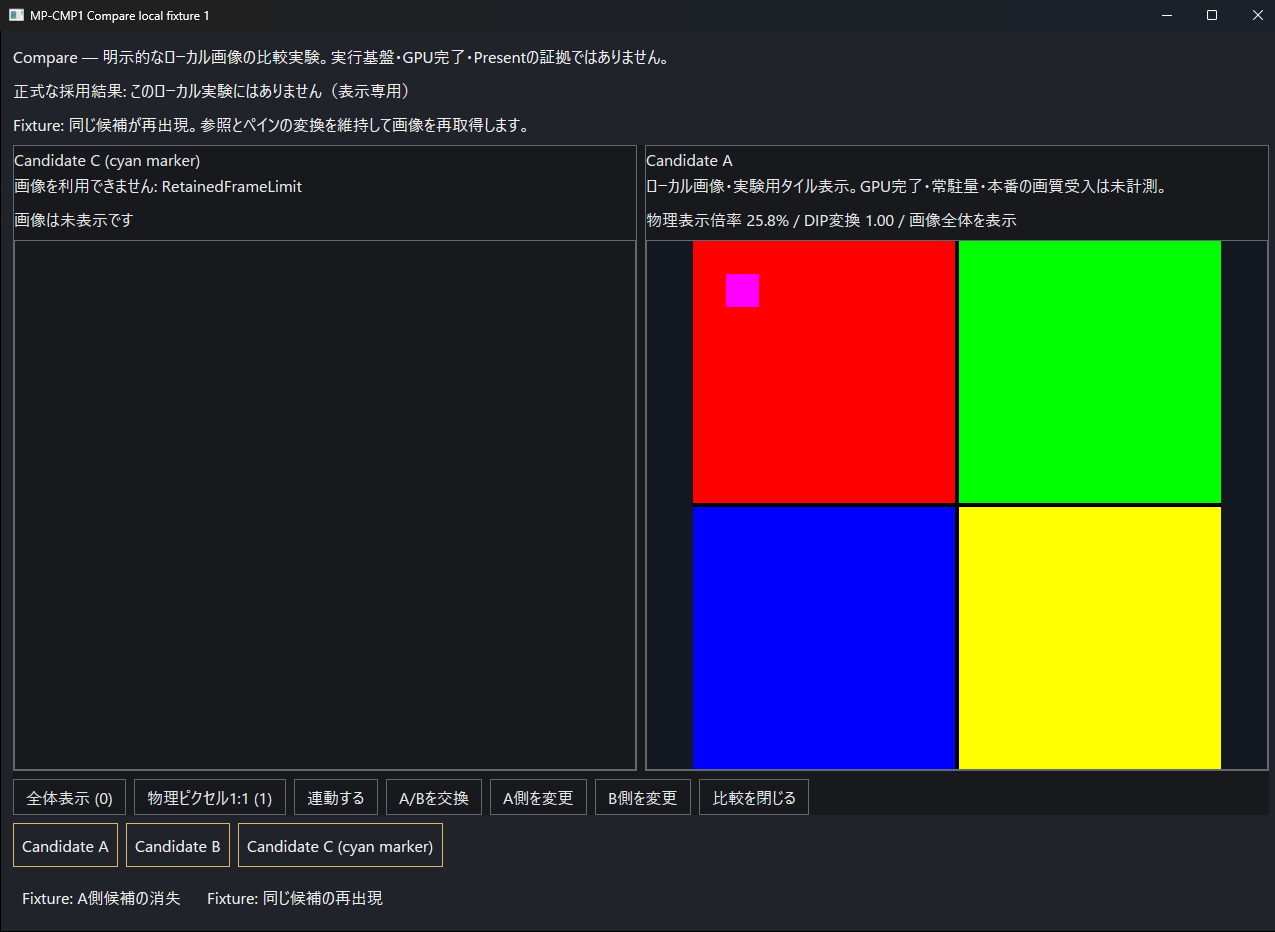
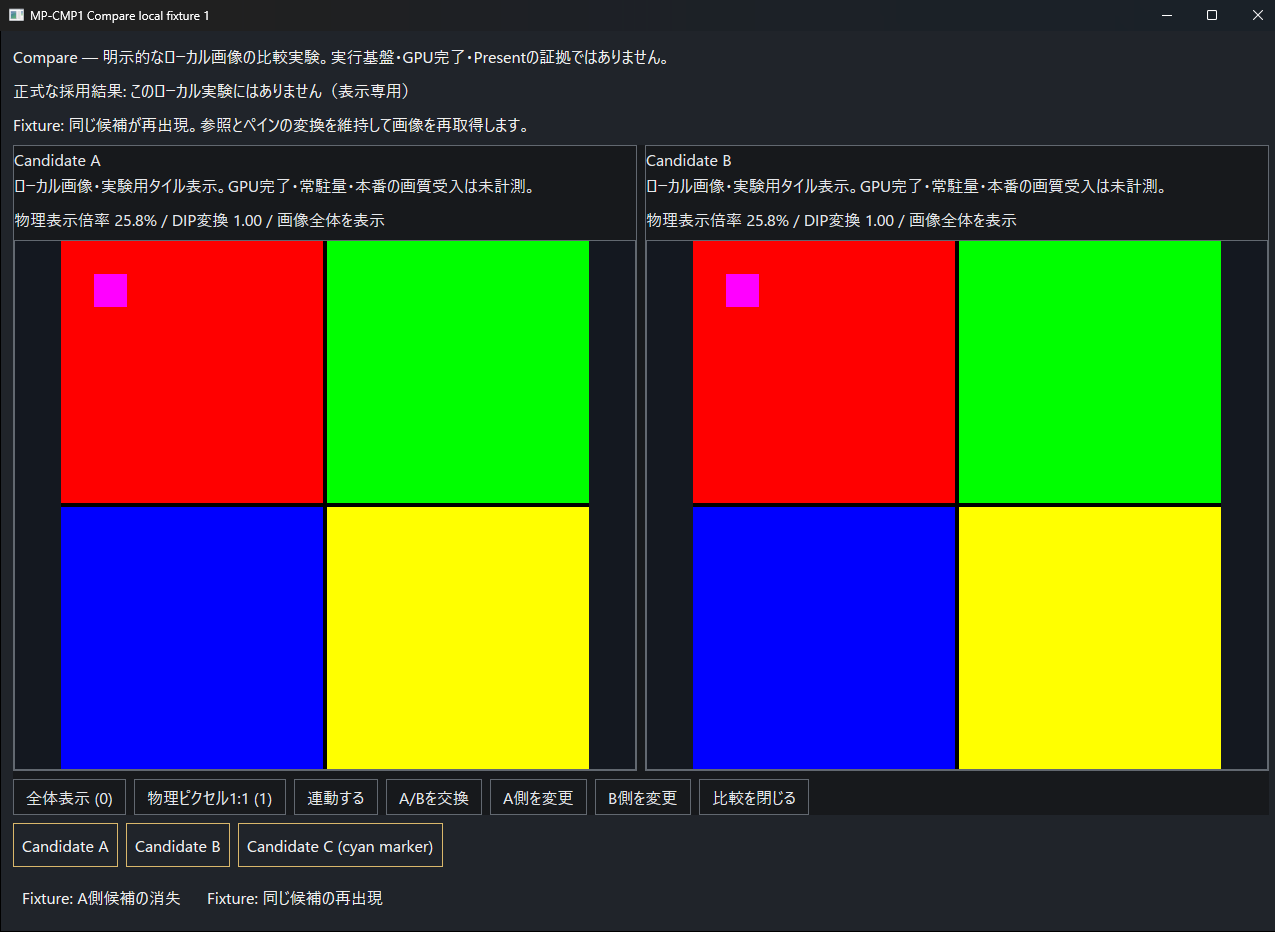
fix(compare): restore a Viewed candidate outside the pair and keep swapped pictures
Repairs the two findings from the Tern round on 7fe5bad.

- B-01 (blocking): closing Compare with a Viewed candidate outside the
  pair left that candidate unavailable. The example's selection path now
  acquires the viewed candidate's own local input when it is not a pair
  member, and closing keeps the picture that selection already loaded
  instead of overwriting it (ADR-0010 D-7). A refused or over-bound
  preparation still states its own reason and never shows another
  candidate's picture.
- A-01 (actionable): a swap while one side was unavailable could withdraw
  the picture the swap had just attached, because CompareView's
  availability still described the pre-swap panes. Availability now
  swaps with the frames, and the example restates its projection after a
  swap exactly as the host does, so the regression is reproducible
  natively.
- Refused preparations now state a user-facing sentence instead of a raw
  variant name on a picture surface (ADR-0015 Q13).

Observed natively on the release build: A/B -> Viewed C -> Close shows
Candidate C at its transform; a swap with side A unavailable keeps side
B's attached picture and leaves the unavailable side's own reason intact.

Evidence: cmp1-compare-latest now binds fourteen captures from this
candidate (both regressions included), the trace ledger digest and the
Gate result for the first candidate 7fe5bad (SUCCEEDED, 8/8).

Changed region(s): [[0.0, 0.1556, 0.4894, 0.8401]]

diff --git a/apps/desktop/examples/compare.rs b/apps/desktop/examples/compare.rs
@@ -690,15 +690,41 @@ impl CompareDemo {
                         .position(|candidate| candidate_index(candidate) == index)
                 });
                 let frame = pane.and_then(|pane| self.compare.read(cx).frames(cx)[pane].clone());
+                // The Viewed candidate can sit outside the pair (D-7): it is a local choice, not a
+                // Compare member, so its own local input is acquired instead of reporting the
+                // absence of a pair frame. A refused or over-bound preparation stays an explicit
+                // unavailable result and never shows another candidate's picture.
+                let own = if frame.is_none() {
+                    image_fixture::fixture_request_for(
+                        CANDIDATES[index].source,
+                        CANDIDATES[index].revision,
+                        1,
+                    )
+                    .ok()
+                } else {
+                    None
+                };
+                let revision = CANDIDATES[index].revision;
                 self.viewer.update(cx, |viewer, cx| {
                     if previous_viewed != Some(index) {
                         viewer.set_camera(ViewCamera::default(), cx);
                     }
                     if let Some(frame) = frame {
                         viewer.present_prepared(frame, window, cx);
+                    } else if let Some(request) = own {
+                        if !viewer
+                            .prepared()
+                            .is_some_and(|prepared| prepared.identity().key == request.key)
+                        {
+                            viewer.load_generated(request, window, cx, move |cancel| {
+                                image_fixture::generate_fixture_png(revision, cancel)
+                                    .map(Arc::<[u8]>::from)
+                            });
+                        }
                     } else {
                         viewer.unavailable(
-                            "画像を利用できません: 閲覧中の候補の保持済み画像がありません。".into(),
+                            "画像を利用できません: 閲覧中の候補のローカル入力を準備できません。"
+                                .into(),
                             cx,
                         );
                     }
@@ -903,10 +929,19 @@ fn open_compare_window(
                                         )
                                     })
                                 });
+                                let missing = this.missing;
+                                let available = this.presentation.compare_pair().map(|pair| {
+                                    pair.each_ref().map(|candidate| {
+                                        missing != Some(candidate_index(candidate))
+                                    })
+                                });
                                 view_entity.update(cx, |view, cx| {
                                     view.swap_resources(window, cx);
-                                    if let Some(labels) = labels {
-                                        view.set_labels(labels, cx);
+                                    // The host re-states the projection on its next render; doing it
+                                    // here keeps the example's contract the same as the shell's and
+                                    // pins that a swap never withdraws the picture it just attached.
+                                    if let (Some(labels), Some(available)) = (labels, available) {
+                                        view.set_projection(labels, available, cx);
                                     }
                                 });
                                 cx.notify();
@@ -943,15 +978,11 @@ fn open_compare_window(
                                     this.viewer.update(cx, |viewer, cx| {
                                         viewer.present_prepared(frame, window, cx);
                                     });
-                                } else {
-                                    this.viewer.update(cx, |viewer, cx| {
-                                        viewer.unavailable(
-                                            "Viewed candidate has no retained prepared frame"
-                                                .into(),
-                                            cx,
-                                        )
-                                    });
                                 }
+                                // A Viewed candidate outside the pair keeps the frame its own local
+                                // selection already loaded; closing Compare must not replace a
+                                // valid picture with an unavailable result, and a refused or
+                                // over-bound preparation already states its own reason.
                             });
                             this.closed = true;
                             this.status = format!(

diff --git a/crates/desktop-gpui/src/image_upload.rs b/crates/desktop-gpui/src/image_upload.rs
@@ -137,6 +137,38 @@ pub enum ImageUploadError {
     InvalidEncodedInputLimit,
 }
 
+impl ImageUploadError {
+    /// One user-facing sentence for a refused local preparation. The variant name stays in
+    /// diagnostics; a picture surface states a state, not an enum (ADR-0015 Q13). The match is
+    /// exhaustive so a new refusal cannot reach a surface unworded.
+    pub fn limitation(&self) -> &'static str {
+        match self {
+            Self::Cancelled => "この画像の準備は取り消されました。",
+            Self::PreparationBusy => "他の画像の準備中です。少し待ってから再試行してください。",
+            Self::ConsumersRemain => "この画像はまだ他の表示が使用しています。",
+            Self::PaintInProgress => "この画像は描画中のため解放できません。",
+            Self::NotRetained => "この画像は保持されていません。",
+            Self::NotOwnedByWindow => "この画像は別のウィンドウが所有しています。",
+            Self::AtlasRelease => "この画像の解放に失敗しました。",
+            Self::QuarantineBudgetExhausted { .. } => {
+                "保持上限に達したため、この画像を保持できません。"
+            }
+            Self::StaleDeviceGeneration { .. } => {
+                "表示先の世代が変わりました。画像を取得し直してください。"
+            }
+            Self::SourceRevisionMismatch { .. } => "要求した画像版と一致しません。",
+            Self::UnverifiableSourceRevision => "画像版を確認できません。",
+            Self::EncodedInputTooLarge { .. } => "画像データが許容上限を超えています。",
+            Self::Decode(_) => "画像を復号できません。",
+            Self::Admission(_) => "この画像は現在の保持状態と両立しないため表示できません。",
+            Self::RetainedFrameLimit => "保持上限に達したため、この画像を保持できません。",
+            Self::InvalidRasterLayout => "画像の形式が検証済みの範囲外です。",
+            Self::Allocation => "画像の作業領域を確保できません。",
+            Self::InvalidEncodedInputLimit => "画像の入力上限設定が不正です。",
+        }
+    }
+}
+
 impl std::fmt::Display for ImageUploadError {
     fn fmt(&self, f: &mut std::fmt::Formatter<'_>) -> std::fmt::Result {
         write!(f, "{self:?}")

diff --git a/crates/desktop-gpui/src/compare_view.rs b/crates/desktop-gpui/src/compare_view.rs
@@ -285,6 +285,10 @@ impl CompareView {
                 }),
             }
         }
+        // The projection's availability follows the candidate that now sits in each pane, so the
+        // swapped side must not look like a reappearance to the next `set_projection` call: that
+        // transition would withdraw the picture the swap just attached.
+        self.available.swap(0, 1);
         self.panes[self.active]
             .read(cx)
             .focus_handle()
@@ -432,7 +436,7 @@ impl CompareView {
                             }
                             this.panes[target].update(cx, |pane, cx| {
                                 pane.unavailable(
-                                    format!("画像を利用できません: {error}").into(),
+                                    format!("画像を利用できません: {}", error.limitation()).into(),
                                     cx,
                                 )
                             });

diff --git a/crates/desktop-gpui/src/image_viewer.rs b/crates/desktop-gpui/src/image_viewer.rs
@@ -364,7 +364,9 @@ impl ImageViewer {
                         }.into();
                     }
                     Ok(_) => this.status = "画像を利用できません: 保持されていない画像です。".into(),
-                    Err(error) => this.status = format!("画像を利用できません: {error}").into(),
+                    Err(error) => {
+                        this.status = format!("画像を利用できません: {}", error.limitation()).into();
+                    }
                 }
                 cx.notify();
             });

diff --git a/docs/development/IMPLEMENTATION_MASTER_PLAN.md b/docs/development/IMPLEMENTATION_MASTER_PLAN.md
@@ -5140,10 +5140,12 @@ SecretValue` are all refused; existing redactor behavior is unchanged.
 
 - **Authority and unchanged scope:** the Caller's plan-completion/resumption instruction under [ADR-0014](../decisions/ADR-0014-YAGNI-SCOPE-AND-RESUMPTION.md), implementing [DC-MP-CMP1](../architecture/DESKTOP_DESIGN_CONTRACTS.md#dc-mp-cmp1) with the values [ADR-0015](../decisions/ADR-0015-UX2-DECISION-CLOSURE.md) ratified (Q5–Q14). No contract, DD, UX, R0 or Runtime owner was amended, and this entry records implementation and observation, not acceptance.
 - **Implementation (`crates/desktop-gpui/src/compare_view.rs`, `image_viewer.rs`, `image_upload.rs`, `lib.rs`, `crates/ui-model/src/lib.rs`, `apps/desktop/examples/compare.rs`):** one shared ideal camera (normalized anchor plus a multiplier over each pane's own contain-fit) with a separate physical 1:1 mode; each pane clamps independently and a clamped anchor is never fed back; unlink keeps each display and only lets later gestures diverge; Swap exchanges candidates between two surviving entities so transforms, ownership and focus stay put; a side replacement keeps the link and resets the pair to Fit; the shell withholds a side whose identity left the projection and states its own reason, and a reappearing side is reported as awaiting its authorized picture rather than keeping the withheld reason under an available label. A same-key treatment attaches one verified frame to both panes (one decode, one entry, two consumers); different keys prepare independent entries. Per-pair Fit and physical 1:1 apply to both panes in either link state, matching ADR-0015 Q6/Q10 and the trace's own operations.
-- **Observed native (release, 100% displays, Windows `10.0.26300.0`):** a linked pan moved both panes by the same amount and preserved their relative offset; after unlink only the originating pane moved; per-pair Fit and 1:1 reset both panes in both link states, with the pixel content matching the stated 25.8% whole view and 100% clipped view; Swap exchanged the labels while each pane kept its own pan and the focus target stayed on the same pane; a plain candidate selection changed only the Viewed choice; a side replacement changed that label, kept the link and returned the pair to Fit; the availability fixtures removed one side with its own unavailable reason, and the same candidate returned at its previous transform in a fresh process; when the retained-payload bound was already exhausted by earlier replacements the same action reported that limit explicitly instead of showing a stale picture. Close exits 0 in both windows.
+- **Observed native (release, 100% displays, Windows `10.0.26300.0`):** a linked pan moved both panes by the same amount and preserved their relative offset; after unlink only the originating pane moved; per-pair Fit and 1:1 reset both panes in both link states, with the pixel content matching the stated 25.8% whole view and 100% clipped view; Swap exchanged the labels while each pane kept its own pan and the focus target stayed on the same pane; a plain candidate selection changed only the Viewed choice; a side replacement changed that label, kept the link and returned the pair to Fit; the availability fixtures removed one side with its own unavailable reason, and the same candidate returned at its previous transform in a fresh process; in a run that had already replaced several identities the same action reported the retained-payload bound explicitly instead of showing a stale picture. Close exits 0 in both windows.
 - **Trace harness, exercised once (`--fixture --shared --trace`):** one JSON line, 1963 ledger rows over 60 s, `ready` after a 115 ms warm-up, `settled`, cancel-probe stage 3 (`submitted`, `restored`, `verified_no_late_overwrite`), zero refusals, `decode_calls` 1, `retained_frames` 1, `consumers` 2 and identical decoded RGBA SHA-256 for both panes; the pair camera delta stayed exactly 0 through the linked pan trace and grew monotonically after the unlink step. The export marks Present, GPU, 8K, mixed DPI, physical 1:1 and cursor-anchored zoom `NOT_MEASURED`, and the fixed five-run × four-variant matrix stays `NOT_RUN` because measured R5 reuse/fairness needs MP-R0D and an explicit experiment authorization.
 - **Independent review of the uncommitted candidate:** an independent reviewer returned five findings. (1) A pair change in the shell reset only the cameras, so a stale picture could stay under the new label - replaced sides now state that the new candidate's authorized image is not yet shown. (2) A reappearing side kept the withheld reason indefinitely - it now moves to an explicit awaiting-picture state instead of contradicting its label. (3) The trace samples scene readiness before the command but cameras after it - retained as the frozen protocol the definition file states (`scene_sample_order`), because it answers whether the previous scene was composed before the next input arrived. (4) The trace's Fit was pair-wide while the control fitted only the active pane when unlinked - the control is now per-pair in both link states, which also removed the now-unused per-pane `fit`. (5) The trace never covers 1:1 or cursor-anchored zoom - both are now exported as explicit `NOT_MEASURED` scopes instead of being left implicit. The reviewer's camera-origin observation is also applied: a pane's camera event propagates the shared camera without claiming that pane as the interaction origin, so a pair-wide control cannot move the pane Swap returns focus to (Q12).
+- **Independent Gate for the first candidate:** Gate `92249c9f-8789-479e-8db6-623353519921` (`cos-desktop-cmp1-7fe5bad-r1`) is **SUCCEEDED** on pushed `7fe5bade3085dbdf2c56c3e31f281dfcf20ce5d3` in an independent detached checkout with **8/8 checks PASS** (fmt 1.7 s, metadata 0.2 s, dependency self-test 0.5 s, dependency rules 0.2 s, plan ledger 0.4 s, clippy 89.2 s, workspace tests 307.3 s, workspace build 30.6 s), request digest `sha256:0b995aec…`, candidate digest `sha256:f737c755…`, terminal-state digest `sha256:34da2b20…`, 470.9 s, cleanup complete, and `gate verify` exits 0 before and after the exact workspace disposal (3.7 GB removed; the pinned source stays as the pushed `dev` commit). Gate success is neither product acceptance nor release permission.
+- **External review round 1 (Tern, pushed `7fe5bad`):** `PASS 1 / 1 / 0`, `VERDICT: HOLD`, with the reduced feature set confirmed against ADR-0015 and DC-MP-CMP1. (1) BLOCKING: closing Compare with a Viewed candidate outside the pair could not restore that candidate, because the example's selection path only looked for a pair frame and the close path overwrote the picture with an unavailable result - a Viewed candidate outside the pair now acquires its own local input, and closing keeps the picture that selection already loaded (D-7). (2) ACTIONABLE: a swap while one side was unavailable could withdraw the picture it had just attached, because the view's availability still described the pre-swap panes - the flags now swap with the frames, and the example restates its projection after a swap exactly as the host does. Both are repaired and observed natively (`13`/`14` and `08` in the evidence record); the repaired candidate needs its own Gate and review round.
 - **Second independent review (bounded resources):** a reviewer confirmed the FIFO preparation queue, the per-frame viewer slot under the unchanged period cap, the shared/independent admission ceilings and the camera/swap math, and found one unbounded growth: `prepare_view_independent_generated` creates a pool per preparation under the current device generation, while pruning decided liveness per *generation*, so an already-empty sibling pool survived for the process lifetime and every later admission re-scanned it. Pruning is now per pool usage, and a regression pins that a live generation no longer keeps an empty sibling (`an_empty_pool_is_dropped_even_when_its_generation_retains_a_frame`; the 17 upload tests pass).
 - **Verified locally:** `cargo fmt --all -- --check`, `cargo metadata --locked`, dependency-rules self-test and allowlist check (7 workspace members), plan ledger, `cargo clippy --locked --workspace --all-targets -- -D warnings`, `cargo test --locked --workspace` and `cargo build --locked --workspace` (recorded in the slice's private check log). Two clippy findings in the new admission guard (`collapsible_if`) were repaired by collapsing the reuse checks into let-chains.
-- **Evidence:** [cmp1-compare-latest](evidence-published/cmp1-compare-latest/session.json) binds the source-file and release-binary hashes, the eleven reviewed captures with their exercised steps and pane text, the trace ledger digest and its derived invariants, the local check results and both review rounds. The raw 1.1 MiB ledger stays private in the verification root.
+- **Evidence:** [cmp1-compare-latest](evidence-published/cmp1-compare-latest/session.json) binds the source-file and release-binary hashes, the fourteen reviewed captures with their exercised steps and pane text, the trace ledger digest and its derived invariants, the local check results and both review rounds. The raw 1.1 MiB ledger stays private in the verification root.
 - **Not claimed and still open:** production media acquisition (MP-IMG6, MP-RT6), Runtime projections and formal-selection integration, the R5 reuse/fairness measurement, unequal-DPI/aspect media, 8K/16K sources, GPU residency and Present. The fixture Compare is an explicitly labelled local experiment, not production adoption, product acceptance, `main` promotion or release.

diff --git a/docs/development/TESTING.md b/docs/development/TESTING.md
@@ -172,6 +172,8 @@ Use `cargo run --locked --release -p cos-desktop --example compare -- --fixture`
 - Exercise link/unlink, pair-wide Fit (`0`) and physical 1:1 (`1`) in **both** link states, `+`/`-`, cursor-anchored zoom, arrow/drag pan and per-pane clamping. A linked pan moves both panes by the same amount; after unlink only the originating pane moves and the other keeps its display. Check the painted pixels and the stated scale/clipping label, not only the pane text.
 - `A/Bを交換` exchanges candidates only: labels swap while each pane keeps its transform and the focus target stays the same pane. A plain candidate selection changes the Viewed choice only; `A側を変更`/`B側を変更` replace one side, keep the link state and reset the pair to Fit.
 - The fixture availability buttons remove and restore one side's picture: the reference is kept, the pane states its own unavailable reason, and a within-bound restore returns the retained frame at its previous transform. Past the retained-payload bound the same action reports that explicit limit instead of a stale picture. A retained frame another consumer still presents stays charged and is retried on the next sweep; its release detail belongs to the service counters, never to the picture's own status line (Q14).
+- Swap while one side is unavailable: the available picture moves to the other pane and stays attached, while the unavailable side keeps its own reason. The next projection update must not treat the moved picture as a reappearance and withdraw it.
+- The Viewed choice may sit outside the pair: select it with a plain selection, then close Compare, and the standalone viewer shows that candidate's own local picture at its transform rather than an unavailable result (ADR-0010 D-7). A refused or over-bound preparation states its own reason and never shows another candidate's picture.
 - Capability states stay explicit: a preview-only pane never claims 1:1, and the per-pair 1:1 control is disabled with its reason when either pane cannot show source pixels.
 - Record the actual display scale/topology, fixture and binary identity, exercised inputs, screenshots and clean close. The `--trace` output is CPU request/scene observation only (`present`, `gpu` and mixed-DPI stay `NOT_MEASURED`); the R5 reuse/fairness comparison it supports remains gated by MP-R0D and an explicit experiment authorization.
 - Regression coverage lives in `view_transform` (anchor/clamp/DPI/camera mapping), `image_upload` (admission, reuse, sharing, counters) and `ui-model` (pair, swap and selection semantics).
